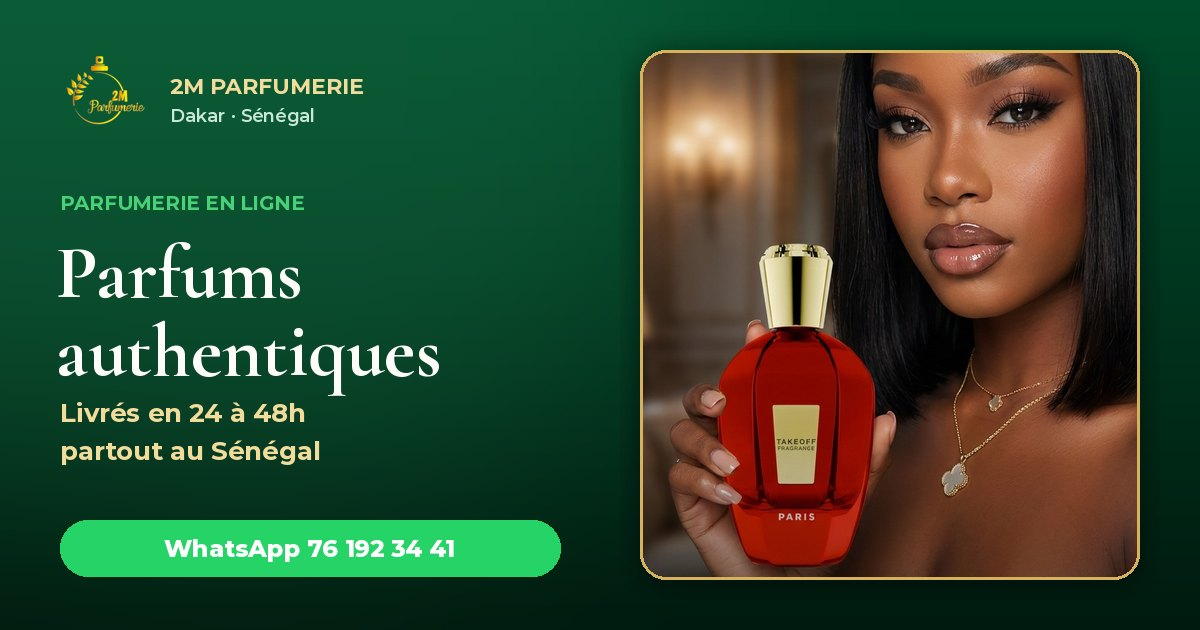
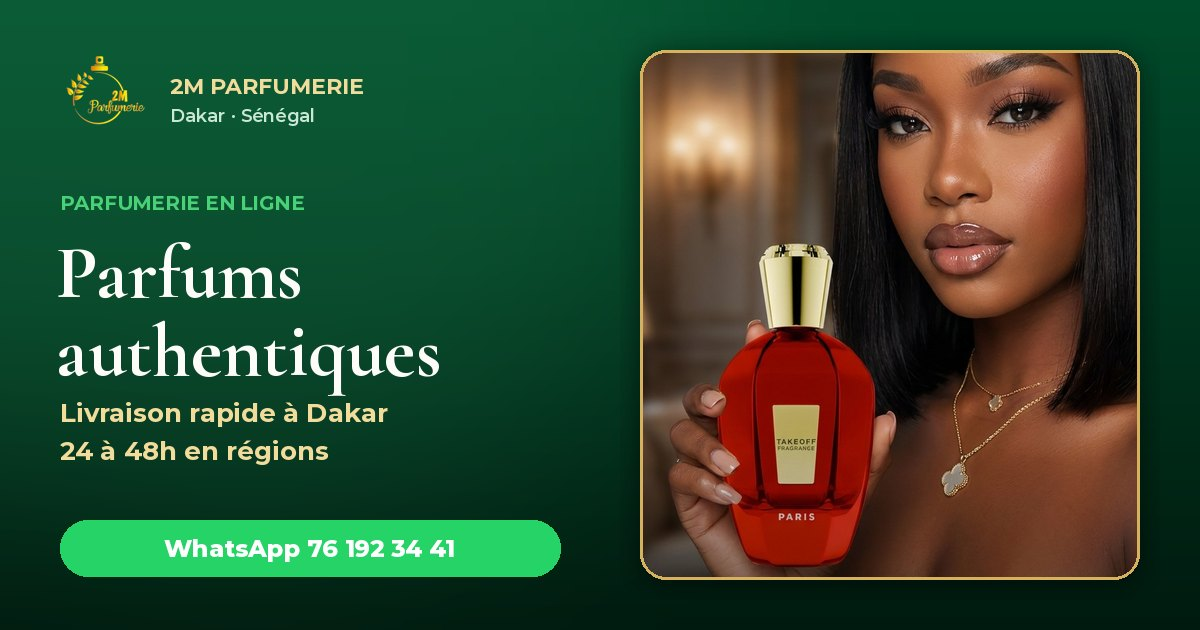
Livraison : rapide à Dakar, 24 à 48h en régions
Claude-Session: https://claude.ai/code/session_015UhtirXCJvFhYYqspf6H7h

Changed region(s): [[0.0308, 0.6333, 0.3392, 0.754]]

diff --git a/index.html b/index.html
@@ -4,20 +4,20 @@
     <meta charset="UTF-8" />
     <meta name="viewport" content="width=device-width, initial-scale=1.0" />
     <title>2M Parfumerie Dakar | Parfums authentiques livrés partout au Sénégal</title>
-    <meta name="description" content="Parfums authentiques à Dakar dès 4 000 F : Takeoff, SCENTLAB, Haqqi, Dubai Perfumes. Commande sur WhatsApp, livraison en 24 à 48h partout au Sénégal. Paiement Wave, Orange Money ou espèces." data-static />
+    <meta name="description" content="Parfums authentiques à Dakar dès 4 000 F : Takeoff, SCENTLAB, Haqqi, Dubai Perfumes. Commande sur WhatsApp, livraison rapide à Dakar, 24 à 48h en régions. Paiement Wave, Orange Money ou espèces." data-static />
     <meta name="author" content="2M Parfumerie" />
     <meta property="og:site_name" content="2M Parfumerie" />
     <meta property="og:locale" content="fr_FR" />
     <meta property="og:type" content="website" />
     <meta property="og:title" content="2M Parfumerie Dakar | Parfums authentiques livrés partout au Sénégal" />
-    <meta property="og:description" content="Parfums authentiques à Dakar dès 4 000 F : Takeoff, SCENTLAB, Haqqi, Dubai Perfumes. Commande sur WhatsApp, livraison en 24 à 48h partout au Sénégal. Paiement Wave, Orange Money ou espèces." />
+    <meta property="og:description" content="Parfums authentiques à Dakar dès 4 000 F : Takeoff, SCENTLAB, Haqqi, Dubai Perfumes. Commande sur WhatsApp, livraison rapide à Dakar, 24 à 48h en régions. Paiement Wave, Orange Money ou espèces." />
     <meta property="og:image" content="https://www.2mparfumeriedk.com/og/default.jpg" />
     <meta property="og:image:width" content="1200" />
     <meta property="og:image:height" content="630" />
     <meta name="twitter:card" content="summary_large_image" />
     <meta name="twitter:site" content="@2mparfumeriesn" />
     <meta name="twitter:title" content="2M Parfumerie Dakar | Parfums authentiques livrés partout au Sénégal" />
-    <meta name="twitter:description" content="Parfums authentiques à Dakar dès 4 000 F : Takeoff, SCENTLAB, Haqqi, Dubai Perfumes. Commande sur WhatsApp, livraison en 24 à 48h partout au Sénégal. Paiement Wave, Orange Money ou espèces." />
+    <meta name="twitter:description" content="Parfums authentiques à Dakar dès 4 000 F : Takeoff, SCENTLAB, Haqqi, Dubai Perfumes. Commande sur WhatsApp, livraison rapide à Dakar, 24 à 48h en régions. Paiement Wave, Orange Money ou espèces." />
     <meta name="twitter:image" content="https://www.2mparfumeriedk.com/og/default.jpg" />
     <link rel="icon" type="image/svg+xml" href="/favicon.svg" />
     <link rel="preconnect" href="https://fonts.googleapis.com" />

diff --git a/src/routes/livraison.tsx b/src/routes/livraison.tsx
@@ -14,7 +14,7 @@ export const Route = createFileRoute("/livraison")({
       {
         name: "description",
         content:
-          "Livraison 2M Parfumerie en 24 à 48h partout au Sénégal : 1 500 à 2 000 FCFA à Dakar, 2 000 FCFA en régions, offerte dès 75 000 FCFA. Paiement Wave, Orange Money ou espèces.",
+          "Livraison 2M Parfumerie : rapide à Dakar (1 500 à 2 000 FCFA selon la zone), 24 à 48h en régions (2 000 FCFA), offerte dès 75 000 FCFA. Paiement Wave, Orange Money ou espèces.",
       },
     ],
   }),
@@ -31,7 +31,7 @@ function DeliveryPage() {
     {
       icon: Clock,
       title: "Confirmation",
-      text: "Nous confirmons la disponibilité et l'adresse. Vous êtes livré en 24 à 48h maximum.",
+      text: "Nous confirmons la disponibilité et l'adresse. Livraison rapide à Dakar, 24 à 48h en régions.",
     },
     {
       icon: MapPinned,
@@ -40,9 +40,8 @@ function DeliveryPage() {
     },
   ];
   const rates = [
-    { label: "Dakar", value: "1 500 à 2 000 FCFA" },
-    { label: "Régions", value: "2 000 FCFA" },
-    { label: "Délai", value: "24 à 48h max" },
+    { label: "Dakar · livraison rapide", value: "1 500 à 2 000 FCFA" },
+    { label: "Régions · 24 à 48h", value: "2 000 FCFA" },
     { label: "Livraison offerte", value: "Dès 75 000 FCFA" },
   ];
   return (
@@ -54,7 +53,7 @@ function DeliveryPage() {
             title="Une commande simple, suivie et humaine."
             text="Chaque détail est confirmé sur WhatsApp pour éviter les surprises et garder l’expérience fluide."
           />
-          <div className="grid gap-3 sm:grid-cols-2 lg:grid-cols-4">
+          <div className="grid gap-3 sm:grid-cols-3">
             {rates.map(({ label, value }) => (
               <div key={label} className="rounded-lg border border-accent/30 bg-accent-muted p-5">
                 <p className="text-[11px] uppercase tracking-[0.14em] text-muted-foreground">{label}</p>

diff --git a/src/routes/collections.takeoff.tsx b/src/routes/collections.takeoff.tsx
@@ -10,7 +10,7 @@ import { whatsappUrl } from "@/lib/perfume-data";
 const URL = "https://www.2mparfumeriedk.com/collections/takeoff";
 const TITLE = "Takeoff Fragrance Dakar — 25 000 F, les 2 à 50 000 F | 2M Parfumerie";
 const DESC =
-  "Takeoff Fragrance à Dakar : parfums inspirés des grandes villes du monde à 25 000 FCFA, les 2 à 50 000 FCFA avec livraison offerte. Livré en 24 à 48h partout au Sénégal.";
+  "Takeoff Fragrance à Dakar : parfums inspirés des grandes villes du monde à 25 000 FCFA, les 2 à 50 000 FCFA avec livraison offerte. Livraison rapide à Dakar, 24 à 48h en régions.";
 
 export const Route = createFileRoute("/collections/takeoff")({
   head: () => ({
@@ -45,7 +45,7 @@ export const Route = createFileRoute("/collections/takeoff")({
       collection="takeoff"
       eyebrow="Collection Takeoff — Scent of Journey"
       h1="Takeoff — Scent of Journey, la collection voyage de 2M Parfumerie"
-      intro="Takeoff est la collection signature de 2M Parfumerie : des parfums inspirés des grandes villes du monde — Paris, New York, Dubai, Rome, Lisbon, Capri et bien d'autres. Chaque flacon (Eau de Parfum, 100 ml) est à 25 000 FCFA. Les 2 à 50 000 FCFA, livraison offerte. Commandez sur WhatsApp, livraison en 24 à 48h partout au Sénégal."
+      intro="Takeoff est la collection signature de 2M Parfumerie : des parfums inspirés des grandes villes du monde — Paris, New York, Dubai, Rome, Lisbon, Capri et bien d'autres. Chaque flacon (Eau de Parfum, 100 ml) est à 25 000 FCFA. Les 2 à 50 000 FCFA, livraison offerte. Commandez sur WhatsApp, livraison rapide à Dakar, 24 à 48h en régions."
       heroImage={takeoffMoscow}
       heroImageAlt="Parfum Takeoff Moscow, inspiré de Xerjoff La Capitale"
     >

diff --git a/src/routes/collections.haqqi.tsx b/src/routes/collections.haqqi.tsx
@@ -40,7 +40,7 @@ export const Route = createFileRoute("/collections/haqqi")({
       collection="haqqi"
       eyebrow="Collection Haqqi"
       h1="Haqqi — Parfums quotidiens accessibles livrés partout au Sénégal"
-      intro="Haqqi est la collection de parfums abordables et quotidiens de 2M Parfumerie. Pensés pour le quotidien sénégalais, les parfums Haqqi offrent une tenue remarquable à un prix accessible, à partir de 4 000 FCFA. Livrés en 24 à 48h partout au Sénégal. Commandez sur WhatsApp ou composez votre pack de 3 Haqqi à 10 000 FCFA."
+      intro="Haqqi est la collection de parfums abordables et quotidiens de 2M Parfumerie. Pensés pour le quotidien sénégalais, les parfums Haqqi offrent une tenue remarquable à un prix accessible, à partir de 4 000 FCFA. Livraison rapide à Dakar, 24 à 48h en régions. Commandez sur WhatsApp ou composez votre pack de 3 Haqqi à 10 000 FCFA."
       ctaLabel="Pack Haqqi (3 parfums) — 10 000 FCFA"
       ctaHref="/coffret-signature"
     />

diff --git a/src/routes/a-propos.tsx b/src/routes/a-propos.tsx
@@ -44,7 +44,7 @@ const faqs = [
   {
     question: "Combien coûte la livraison et en combien de temps ?",
     answer:
-      "Nous livrons partout au Sénégal en 24 à 48h maximum. Tarifs : 1 500 à 2 000 FCFA à Dakar selon la zone, 2 000 FCFA en régions. La livraison est offerte dès 75 000 FCFA d'achat, et pour 2 parfums Takeoff (50 000 FCFA).",
+      "Nous livrons partout au Sénégal : livraison rapide à Dakar (1 500 à 2 000 FCFA selon la zone) et en 24 à 48h dans les régions (2 000 FCFA). La livraison est offerte dès 75 000 FCFA d'achat, et pour 2 parfums Takeoff (50 000 FCFA).",
   },
   {
     question: "Comment finaliser ma commande ?",

diff --git a/src/components/commerce/CartDrawer.tsx b/src/components/commerce/CartDrawer.tsx
@@ -152,7 +152,7 @@ export function CartDrawer({ open, onClose }: { open: boolean; onClose: () => vo
                 Commander sur WhatsApp
               </Button>
               <p className="mt-3 text-center text-xs text-muted-foreground">
-                Paiement Wave, Orange Money ou espèces. Livraison 24 à 48h : Dakar 1 500 à 2 000 F, régions 2 000 F.
+                Paiement Wave, Orange Money ou espèces. Livraison rapide à Dakar (1 500 à 2 000 F), 24 à 48h en régions (2 000 F).
               </p>
               <Button
                 type="button"

diff --git a/src/routes/contact.tsx b/src/routes/contact.tsx
@@ -164,7 +164,7 @@ function ContactPage() {
               >
                 <p className="text-foreground">Partout au Sénégal</p>
                 <p className="mt-1 text-sm text-muted-foreground">
-                  Livraison en 24 à 48h · Dakar 1 500 à 2 000 F, régions 2 000 F · offerte dès 75 000 F
+                  Livraison rapide à Dakar (1 500 à 2 000 F) · 24 à 48h en régions (2 000 F) · offerte dès 75 000 F
                 </p>
               </ContactItem>
             </div>

diff --git a/src/routes/boutique.$productSlug.tsx b/src/routes/boutique.$productSlug.tsx
@@ -229,7 +229,7 @@ function ProductTemplate({ product, products }: { product: BoutiqueProduct; prod
               {formatPrice(product.price)}
             </p>
             <p className="mt-2 text-[13px] text-whatsapp">
-              ✓ En stock — Livré en 24 à 48h partout au Sénégal
+              ✓ En stock — Livraison rapide à Dakar, 24 à 48h en régions
             </p>
 
             <div className="mt-8 space-y-2">

diff --git a/src/components/commerce/PageBlocks.tsx b/src/components/commerce/PageBlocks.tsx
@@ -51,7 +51,7 @@ export function ProductGrid({ limit }: { limit?: number }) {
 
 export function Ticker() {
   const items = [
-    "✦ Livraison 24 à 48h partout au Sénégal",
+    "✦ Livraison rapide à Dakar · 24 à 48h en régions",
     "✦ Livraison offerte dès 75 000 F",
     "✦ Wave · Orange Money · espèces",
     "✦ +100 collections exclusives",
